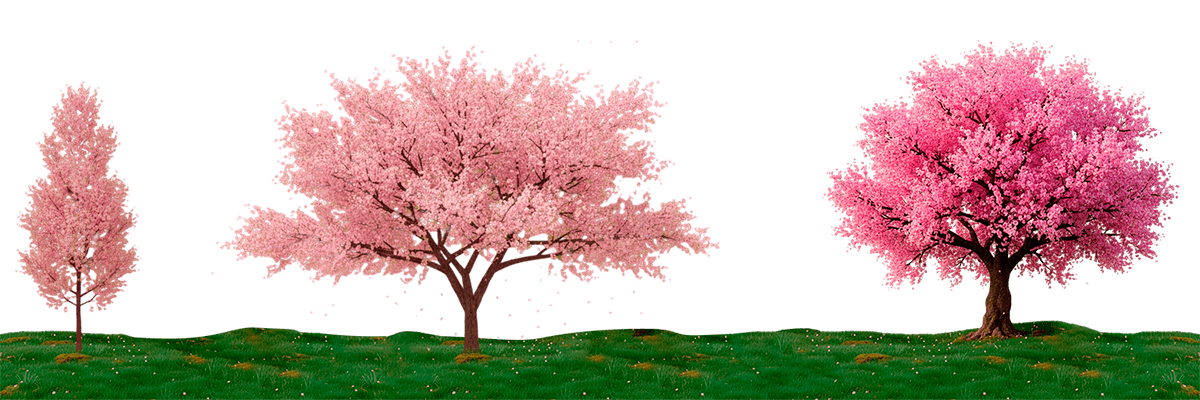
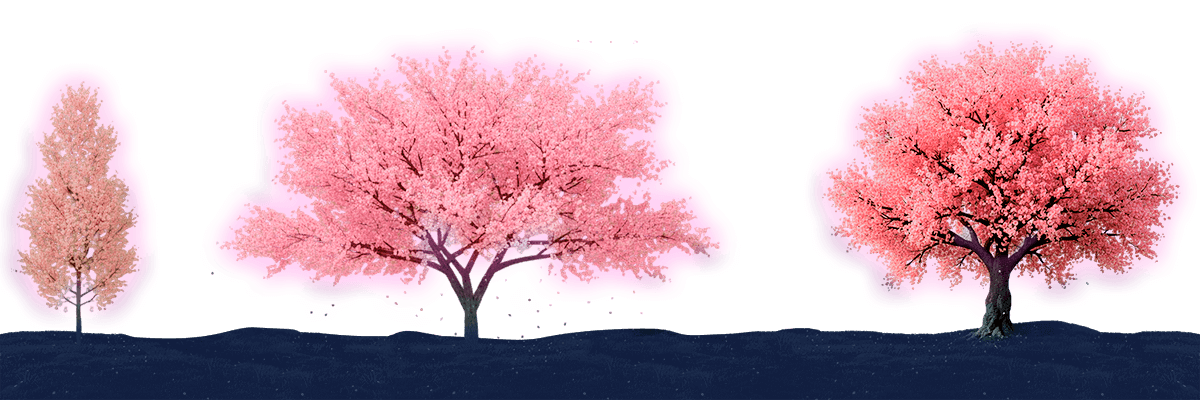
feat(game-ui): change design game update v.0.0.1

diff --git a/shared/components/composite/game-2d/layer-controller/LayerController.tsx b/shared/components/composite/game-2d/layer-controller/LayerController.tsx
@@ -86,28 +86,80 @@ export function LayerController({
   return (
     <>
       <ImageAssetLayer
-        imageUrl={`${SPRITES_PATH}/sky_level_1.jpg`}
+        imageUrl={`${SPRITES_PATH}/stars.jpg`}
         width={PLAYER_CONTROLLER_TOKENS.WORLD_WIDTH}
-        height={340}
-        y={150}
+        height={300}
+        y={PLAYER_CONTROLLER_TOKENS.WORLD_FLOOR_Y + 150}
         repeat="repeat-x"
-        tileSize={1070}
-        parallaxFactor={0.1}
-        autoScrollSpeed={0.2}
+        tileSize={600}
+        parallaxFactor={0.08}
         cameraX={cameraX}
         zIndex={1}
       />
+
+      <ImageAssetLayer
+        imageUrl={`${SPRITES_PATH}/kensai_logo.png`}
+        width={400}
+        height={103}
+        x={PLAYER_CONTROLLER_TOKENS.WORLD_WIDTH * 0}
+        y={PLAYER_CONTROLLER_TOKENS.WORLD_FLOOR_Y + 200}
+        repeat="no-repeat"
+        parallaxFactor={-0.03}
+        cameraX={cameraX}
+        zIndex={1}
+      />
+
+      <ImageAssetLayer
+        imageUrl={`${SPRITES_PATH}/moon.png`}
+        width={PLAYER_CONTROLLER_TOKENS.WORLD_WIDTH}
+        height={400}
+        y={PLAYER_CONTROLLER_TOKENS.WORLD_FLOOR_Y}
+        x={PLAYER_CONTROLLER_TOKENS.WORLD_WIDTH * 0.17}
+        repeat="no-repeat"
+        tileSize={400}
+        parallaxFactor={0.05}
+        cameraX={cameraX}
+        zIndex={2}
+      />
+
+      <ImageAssetLayer
+        imageUrl={`${SPRITES_PATH}/sky_level_dark.png`}
+        width={PLAYER_CONTROLLER_TOKENS.WORLD_WIDTH}
+        height={457}
+        y={50}
+        repeat="repeat-x"
+        tileSize={1248}
+        parallaxFactor={0}
+        autoScrollSpeed={0.15}
+        cameraX={cameraX}
+        opacity={0.7}
+        zIndex={3}
+      />
+
       <ImageAssetLayer
         imageUrl={`${SPRITES_PATH}/mountains.png`}
         width={PLAYER_CONTROLLER_TOKENS.WORLD_WIDTH}
-        height={500}
+        height={241}
         y={PLAYER_CONTROLLER_TOKENS.WORLD_FLOOR_Y - 10}
         repeat="repeat-x"
-        tileSize={512}
+        tileSize={800}
         parallaxFactor={0.6}
         cameraX={cameraX}
         zIndex={5}
       />
+
+      <ImageAssetLayer
+        imageUrl={`${SPRITES_PATH}/pagoda_kensai.png`}
+        width={280}
+        height={350}
+        x={PLAYER_CONTROLLER_TOKENS.WORLD_WIDTH * 0.43}
+        y={PLAYER_CONTROLLER_TOKENS.WORLD_FLOOR_Y + 40}
+        repeat="no-repeat"
+        parallaxFactor={0.6}
+        cameraX={cameraX}
+        zIndex={6}
+      />
+
       <ImageAssetLayer
         imageUrl={`${SPRITES_PATH}/pagoda_kensai.png`}
         width={280}
@@ -128,6 +180,19 @@ export function LayerController({
         tileSize={800}
         parallaxFactor={0.75}
         cameraX={cameraX}
+        zIndex={7}
+      />
+      <ImageAssetLayer
+        imageUrl={`${SPRITES_PATH}/fog.png`}
+        width={PLAYER_CONTROLLER_TOKENS.WORLD_WIDTH * 3}
+        height={228}
+        y={80}
+        repeat="repeat-x"
+        tileSize={1248}
+        parallaxFactor={1}
+        autoScrollSpeed={-0.1}
+        cameraX={cameraX}
+        opacity={0.8}
         zIndex={7}
       />
       <ImageAssetLayer
@@ -175,7 +240,21 @@ export function LayerController({
         tileSize={674}
         parallaxFactor={1.4}
         cameraX={cameraX}
-        zIndex={100}
+        zIndex={10}
+      />
+
+      <ImageAssetLayer
+        imageUrl={`${SPRITES_PATH}/fog.png`}
+        width={PLAYER_CONTROLLER_TOKENS.WORLD_WIDTH * 3}
+        height={228}
+        y={-30}
+        repeat="repeat-x"
+        tileSize={1248}
+        parallaxFactor={1}
+        autoScrollSpeed={0.05}
+        cameraX={cameraX}
+        opacity={0.6}
+        zIndex={12}
       />
     </>
   );

diff --git a/shared/components/base/game-2d/sprite-player/SpritePlayer.tsx b/shared/components/base/game-2d/sprite-player/SpritePlayer.tsx
@@ -78,7 +78,7 @@ export function SpritePlayer(props: SpritePlayerUI) {
   }
 
   return (
-    <div className="absolute animate-gpu z-50 overflow-hidden" style={containerStyle}>
+    <div className="absolute animate-gpu z-8 overflow-hidden" style={containerStyle}>
       {canAnimate ? (
         <div
           ref={spriteRef}
